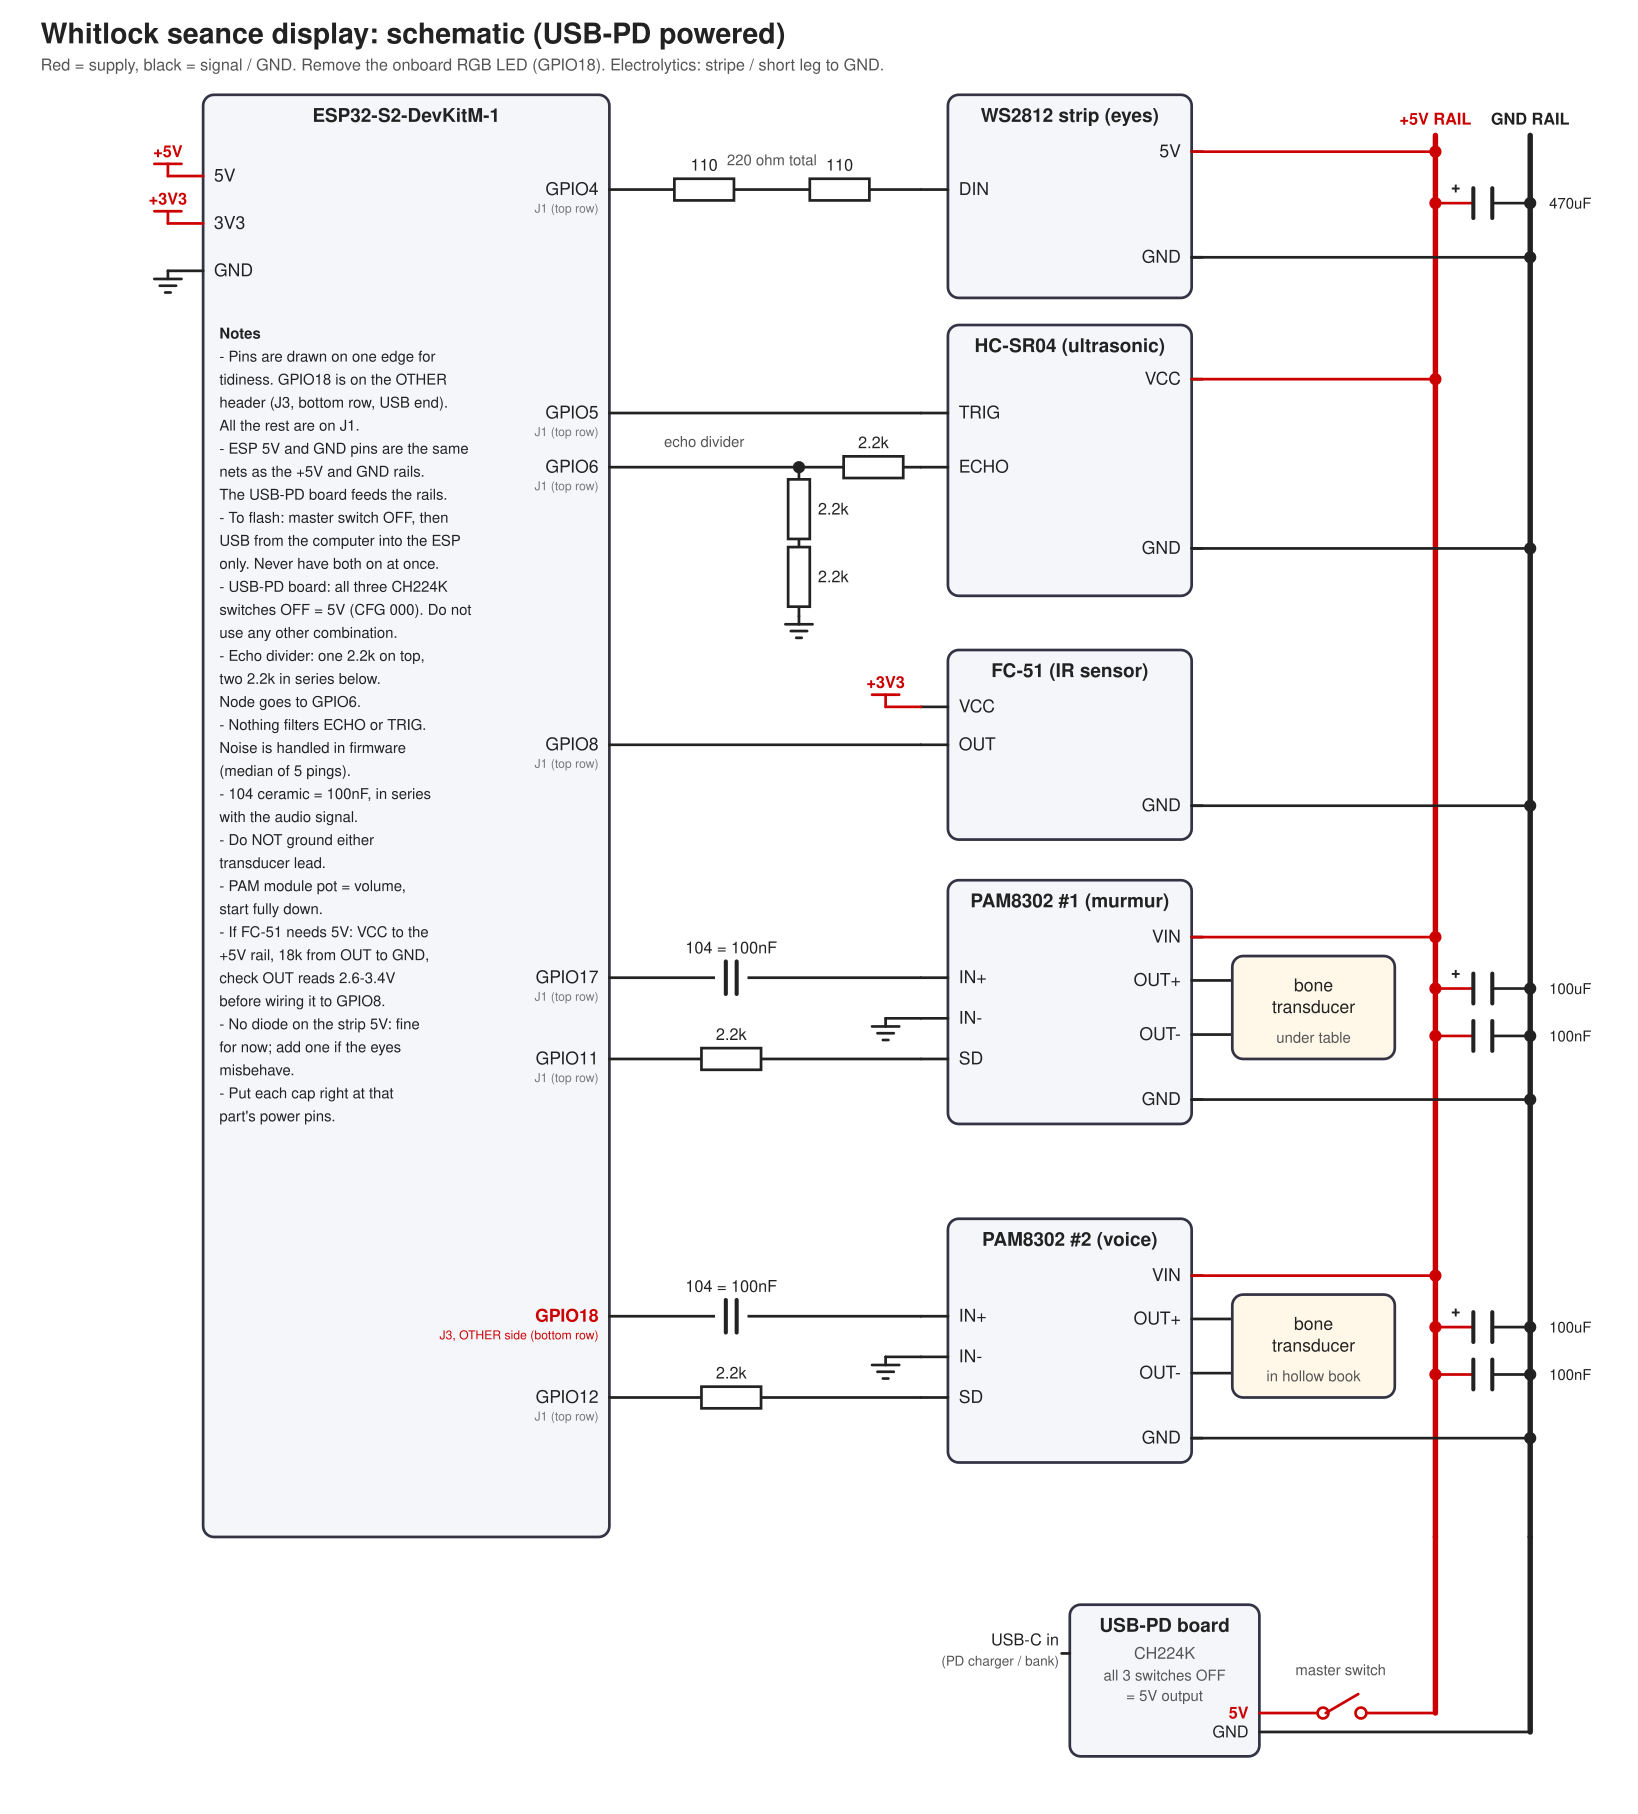
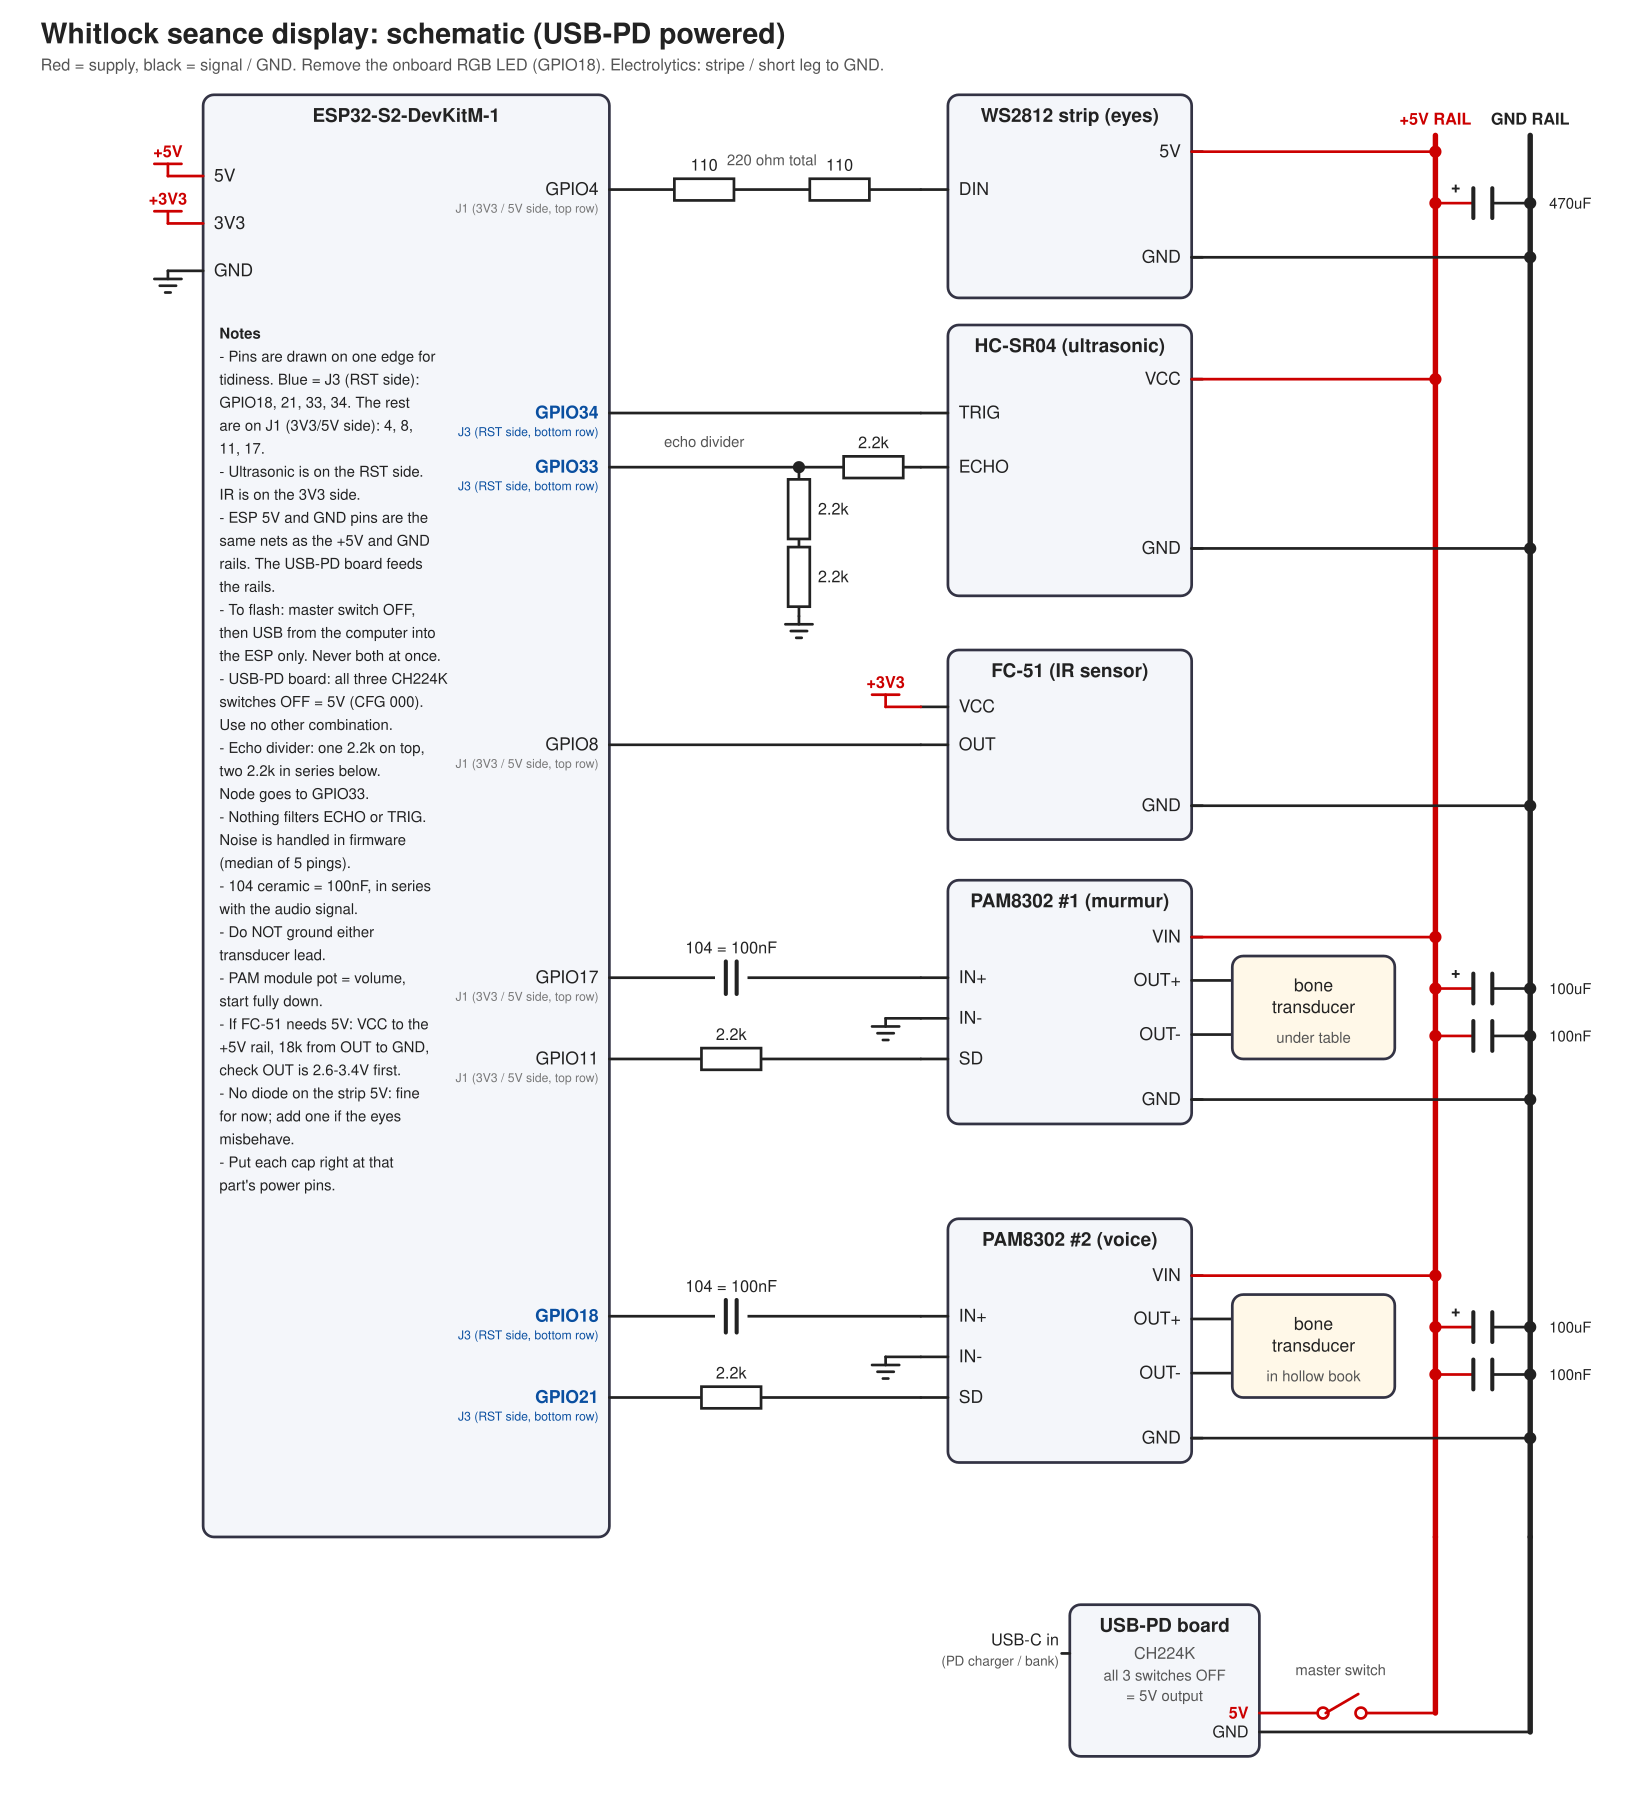
Rebalance pins across both headers: ultrasonic and amp 2 shutdown move to the RST side; update schematic and README

diff --git a/src/config.h b/src/config.h
@@ -2,14 +2,16 @@
 #include <Arduino.h>
 
 // ======================= pins (ESP32-S2-DevKitM-1 GPIO) ======================
+// Header J1 (3V3/5V side): GPIO4 LED, GPIO8 IR, GPIO11 amp1 SD, GPIO17 DAC1.
+// Header J3 (RST side):   GPIO18 DAC2, GPIO21 amp2 SD, GPIO33 echo, GPIO34 trig.
 // GPIO18 (DAC2) also drives the board's onboard RGB LED: remove that LED (see README).
 constexpr uint8_t PIN_DAC_MURMUR    = 17;  // DAC1 -> 100nF -> trimpot -> PAM8302 #1 (under table)
 constexpr uint8_t PIN_DAC_LINES     = 18;  // DAC2 -> 100nF -> trimpot -> PAM8302 #2 (hollow book)
 constexpr uint8_t PIN_AMP_SD_MURMUR = 11;  // PAM8302 #1 SD
-constexpr uint8_t PIN_AMP_SD_LINES  = 12;  // PAM8302 #2 SD
+constexpr uint8_t PIN_AMP_SD_LINES  = 21;  // PAM8302 #2 SD  (J3, RST side)
 constexpr uint8_t PIN_LED_DATA      = 4;   // WS2812 data via 330R
-constexpr uint8_t PIN_US_TRIG       = 5;   // HC-SR04 trig
-constexpr uint8_t PIN_US_ECHO       = 6;   // HC-SR04 echo, through 1k/2k divider
+constexpr uint8_t PIN_US_TRIG       = 34;  // HC-SR04 trig (J3, RST side)
+constexpr uint8_t PIN_US_ECHO       = 33;  // HC-SR04 echo (J3, RST side), through the divider
 constexpr uint8_t PIN_IR            = 8;   // FC-51 OUT
 constexpr uint8_t PIN_BAT_SENSE     = 1;   // cell+ -> 100k -> pin -> 100k -> GND (+100nF at pin)
 constexpr uint8_t PIN_PERIPH_EN     = 13;  // HIGH = switched 5V rail on (only if USE_PERIPH_SWITCH)

diff --git a/README.md b/README.md
@@ -5,11 +5,12 @@ One ESP32-S2-DevKitM-1 (PlatformIO, Arduino). Pins are the GPIO numbers printed 
 ## Wiring
 
 ```
+(J1 = 3V3/5V side: 4, 8, 11, 17.   J3 = RST side: 18, 21, 33, 34)
 GPIO17 DAC1 -> 100nF -> 10k trimpot -> PAM8302 #1 IN+  (IN- to GND)   murmur, under table
 GPIO18 DAC2 -> 100nF -> 10k trimpot -> PAM8302 #2 IN+  (IN- to GND)   Whitlock's lines, hollow book
-GPIO11 / GPIO12   PAM #1 / #2 SD (config: USE_AMP_SD, AMP_ON_LEVEL)
+GPIO11 / GPIO21   PAM #1 / #2 SD (config: USE_AMP_SD, AMP_ON_LEVEL)
 GPIO4  WS2812 data via 330R (+10k to GND so it can't float in deep sleep)
-GPIO5  HC-SR04 TRIG        GPIO6  ECHO via 1k (top) / 2k (bottom) divider
+GPIO34 HC-SR04 TRIG        GPIO33 ECHO via the 2.2k divider (J3, RST side)
 GPIO8  FC-51 OUT (active-low)
 GPIO1  cell+ -> 100k -> pin -> 100k -> GND, 100nF pin to GND
 GPIO13 reserved for a switched 5V rail (USE_PERIPH_SWITCH, off: cells are protected)
